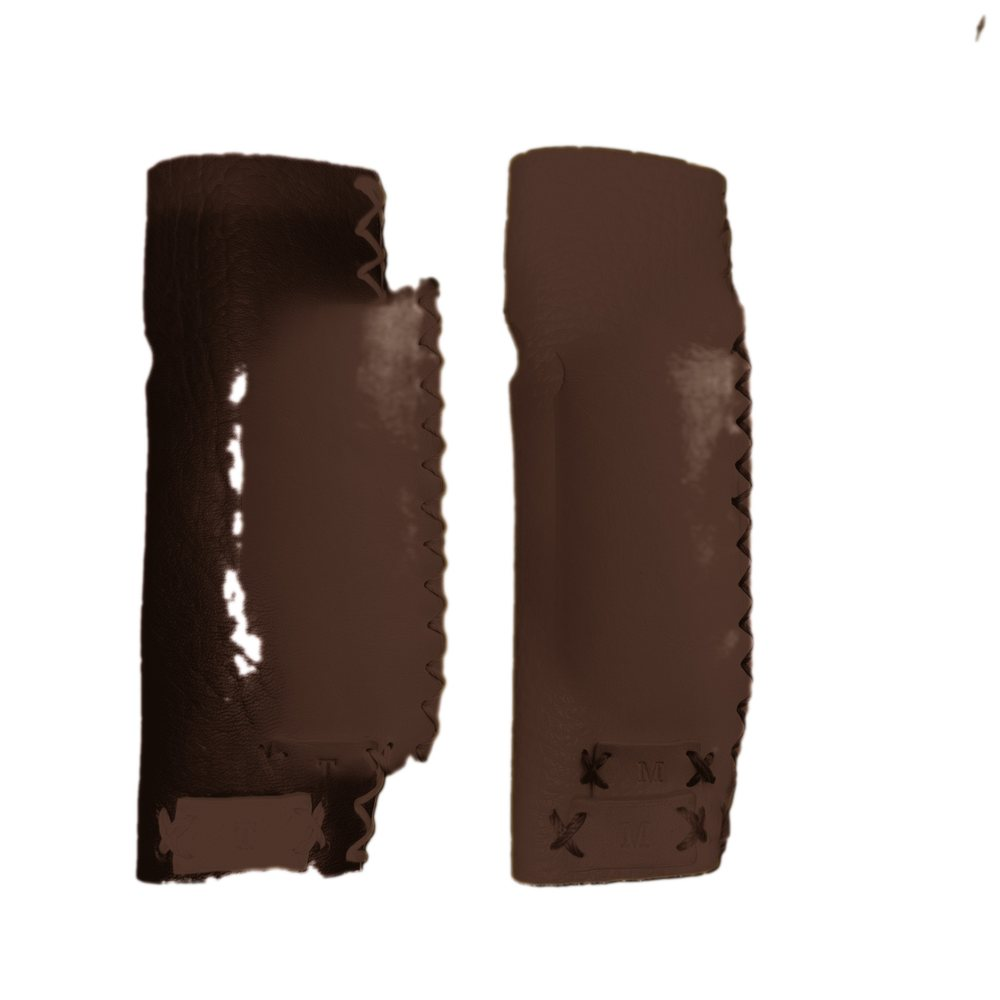
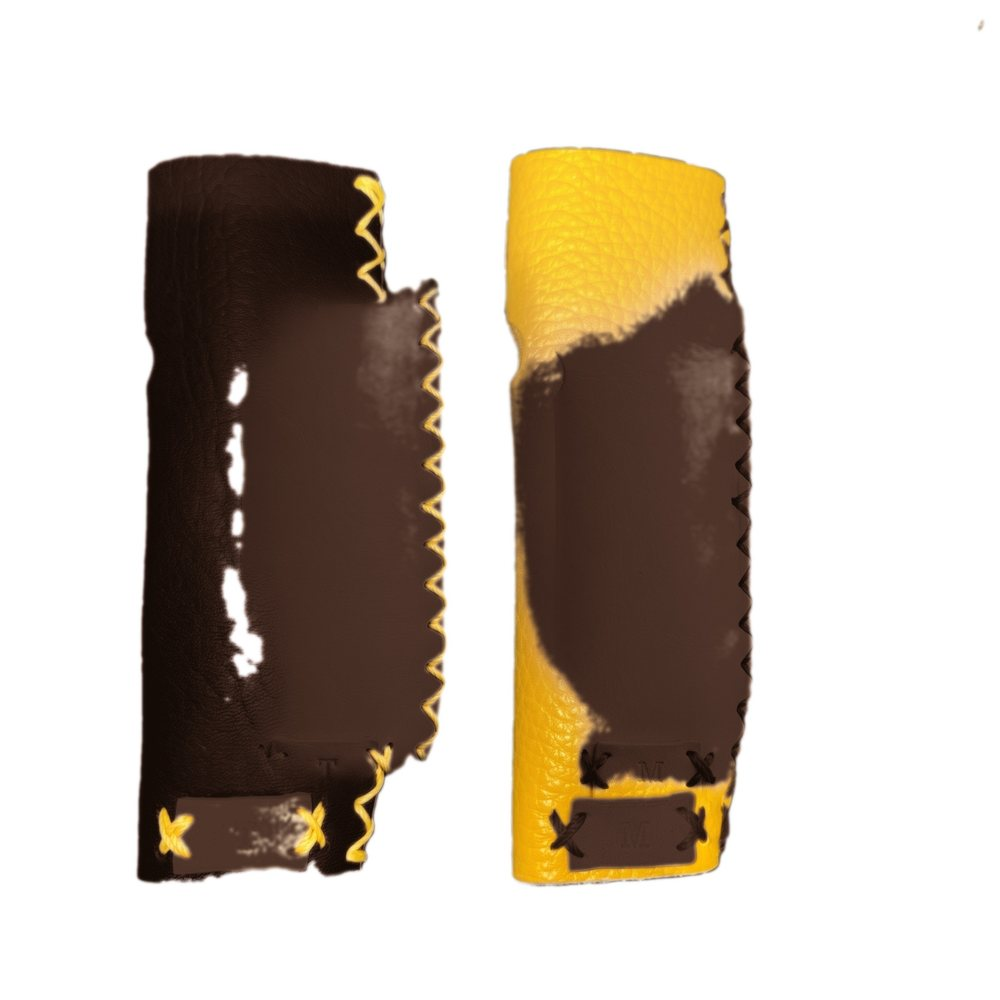
価格改定・商品構成の変更・オーダーの選択肢を整理
商品:
- レザーベルト 8,900円
- 蹄鉄バックルベルト → 腕輪なので「ブレスレット」に改名、3,980円。カテゴリを
  小物へ移し、サイズも胴回りから手首まわりに変更
- トラッカーウォレット 14,000円 / キーケース 5,000円 / カードケース 3,980円
- メガネケース 5,000円 / ウエストポーチ 4,000円 / ミニバッグチャーム 4,500円
- レザースリーブ 2,500円
- フラップケースを削除

オーダー:
- 革の種類を選ぶ項目を廃止
- 革の色をブラック / ダークブラウン / ナチュラルの3色に整理し、それ以外は
  「その他の色（別途費用）」として相談に回す
- ステッチをブラック / きなり / ターコイズブルー / ダークブラウンに変更。
  同じく「その他の色（別途費用）」を用意

色見本の生成:
真鍮の金具まで革と一緒に色が変わっていた。彩度だけでは革と区別がつかないため、
色相で切り分けるようにした（基準写真の革は15〜30度、真鍮は35度以上に出る）。
金具は元の金属色のまま残る。

Claude-Session: https://claude.ai/code/session_016AtETMtHpM8tqHZ44gkQZM

diff --git a/js/order-options.js b/js/order-options.js
@@ -1,9 +1,7 @@
 /* =========================================================================
    オーダーシミュレーターの中身。
-   【この定数の値はすべて仮】。若林さんに実際に作れる範囲を確認して差し替える。
-   - 革の種類 / 色 / ステッチ のラインナップ
-   - 製品ごとの base（基本価格）と、各オプションの add（加算額）
-   - 革種と色の組み合わせに制限があるか（例：ヌメ革は染色不可 等）も要確認
+   【要確認】その他の色を選んだときの追加費用は未定。若林さんに確認して
+   OTHER_COLOR_NOTE と add の値を入れる。
    ========================================================================= */
 
 window.ORDER = {
@@ -11,47 +9,38 @@ window.ORDER = {
   colors: [
     { id: 'black', label: 'ブラック', chip: '#1c1c1c', add: 0 },
     { id: 'darkbrown', label: 'ダークブラウン', chip: '#3f2a1b', add: 0 },
-    { id: 'brown', label: 'ブラウン', chip: '#7a4a2b', add: 0 },
-    { id: 'camel', label: 'キャメル', chip: '#b3763f', add: 0 },
-    { id: 'natural', label: 'ナチュラル', chip: '#d8b483', add: 0 }
+    { id: 'natural', label: 'ナチュラル', chip: '#d8b483', add: 0 },
+    { id: 'other', label: 'その他の色', chip: 'other', add: 0,
+      desc: '上記以外の色をご希望の場合、革の取り寄せが必要になるため別途費用をいただきます。ご相談ください。' }
   ],
 
   // 全製品に共通で選べるもの
   common: [
     {
-      key: 'leather',
-      label: '革の種類',
-      note: '同じ色でも、革が変わると硬さと育ち方が変わります。',
-      options: [
-        { id: 'nume', label: 'ヌメ革', add: 0, desc: '経年で飴色に育つ、いちばん変化が楽しめる革。' },
-        { id: 'oil', label: 'オイルドレザー', add: 2000, desc: 'しっとり柔らかく、傷が馴染みやすい。' },
-        { id: 'bridle', label: 'ブライドルレザー', add: 4000, desc: '硬く締まった英国革。使うほど艶が出る。' }
-      ]
-    },
-    {
       key: 'stitch',
       label: 'ステッチ',
       note: '手縫いの糸の色。',
       options: [
-        { id: 'natural', label: '生成り', chip: '#e6dcc8', add: 0 },
         { id: 'black', label: 'ブラック', chip: '#151515', add: 0 },
-        { id: 'white', label: 'ホワイト', chip: '#f2f2f2', add: 0 },
-        { id: 'yellow', label: 'イエロー', chip: '#d8ae2e', add: 0 },
-        { id: 'omakase', label: 'おまかせ', chip: 'transparent', add: 0, desc: '革の色に合わせて若林が選びます。' }
+        { id: 'natural', label: 'きなり', chip: '#e6dcc8', add: 0 },
+        { id: 'turquoise', label: 'ターコイズブルー', chip: '#3aa6b9', add: 0 },
+        { id: 'darkbrown', label: 'ダークブラウン', chip: '#3f2a1b', add: 0 },
+        { id: 'other', label: 'その他の色', chip: 'other', add: 0,
+          desc: '上記以外の色をご希望の場合、糸の取り寄せが必要になるため別途費用をいただきます。ご相談ください。' }
       ]
     }
   ],
 
   products: [
     {
-      id: 'belt_black', name: 'レザーベルト', base: 15000, cat: 'ベルト',
+      id: 'belt_black', name: 'レザーベルト', base: 8900, cat: 'ベルト',
       extra: [
         {
           key: 'width', label: '幅', note: 'ベルトループの幅に合わせて。迷ったら35mm。',
           options: [
             { id: 'w30', label: '30mm', add: 0 },
             { id: 'w35', label: '35mm', add: 0 },
-            { id: 'w40', label: '40mm', add: 1500 }
+            { id: 'w40', label: '40mm', add: 0 }
           ]
         },
         {
@@ -59,7 +48,7 @@ window.ORDER = {
           options: [
             { id: 'square_silver', label: '角型 / シルバー', chip: '#b9bcc0', add: 0 },
             { id: 'square_black', label: '角型 / ブラック', chip: '#3a3a3a', add: 0 },
-            { id: 'round_brass', label: 'ラウンド / 真鍮', chip: '#b08d3f', add: 1500 }
+            { id: 'round_brass', label: 'ラウンド / 真鍮', chip: '#b08d3f', add: 0 }
           ]
         }
       ],
@@ -67,20 +56,11 @@ window.ORDER = {
               note: 'いつも締めている位置で測ってください。分からなければ空欄で構いません。' }
     },
     {
-      id: 'belt_horseshoe', name: '蹄鉄バックルベルト', base: 19000, cat: 'ベルト',
-      extra: [
-        {
-          key: 'width', label: '幅', note: '',
-          options: [
-            { id: 'w35', label: '35mm', add: 0 },
-            { id: 'w40', label: '40mm', add: 1500 }
-          ]
-        }
-      ],
-      size: { label: '胴回り', unit: 'cm', placeholder: '例：82', min: 60, max: 130,
-              note: 'いつも締めている位置で測ってください。分からなければ空欄で構いません。' }
+      id: 'belt_horseshoe', name: 'ブレスレット', base: 3980, cat: '小物',
+      size: { label: '手首まわり', unit: 'cm', placeholder: '例：17', min: 12, max: 25,
+              note: '手首のいちばん細いところを測ってください。分からなければ空欄で構いません。' }
     },
-    { id: 'trucker_wallet', name: 'トラッカーウォレット', base: 28000, cat: 'ウォレット',
+    { id: 'trucker_wallet', name: 'トラッカーウォレット', base: 14000, cat: 'ウォレット',
       extra: [
         {
           key: 'concho', label: 'コンチョ', note: '',
@@ -92,14 +72,13 @@ window.ORDER = {
       ]
     },
     { id: 'star_wallet', name: 'スタースタッズウォレット', base: 30000, cat: 'ウォレット' },
-    { id: 'key_case', name: 'キーケース', base: 8000, cat: 'ケース' },
-    { id: 'card_case', name: 'カードケース', base: 6500, cat: 'ケース' },
-    { id: 'glasses_case_red', name: 'メガネケース', base: 9500, cat: 'ケース' },
-    { id: 'flap_case', name: 'フラップケース', base: 8500, cat: 'ケース' },
-    { id: 'waist_pouch', name: 'ウエストポーチ', base: 20000, cat: '小物' },
+    { id: 'key_case', name: 'キーケース', base: 5000, cat: 'ケース' },
+    { id: 'card_case', name: 'カードケース', base: 3980, cat: 'ケース' },
+    { id: 'glasses_case_red', name: 'メガネケース', base: 5000, cat: 'ケース' },
+    { id: 'waist_pouch', name: 'ウエストポーチ', base: 4000, cat: '小物' },
     { id: 'watch_band', name: 'ウォッチバンド', base: 12000, cat: '小物',
       size: { label: 'ラグ幅', unit: 'mm', placeholder: '例：20', min: 12, max: 30,
               note: '時計側の取り付け幅。分からなければ機種名をご相談時にお知らせください。' } },
-    { id: 'leather_sleeve', name: 'レザースリーブ', base: 4500, cat: '小物' }
+    { id: 'leather_sleeve', name: 'レザースリーブ', base: 2500, cat: '小物' }
   ]
 };

diff --git a/index.html b/index.html
@@ -87,14 +87,8 @@
         <li class="card">
           <figure><img src="assets/img/belt_black.jpg" alt="レザーベルト 黒" loading="lazy"></figure>
           <h3 class="card-name">レザーベルト</h3>
-          <p class="card-price">&yen;15,000</p>
+          <p class="card-price">&yen;8,900</p>
           <a class="card-cta" href="order.html?product=belt_black">オーダーをつくる</a>
-        </li>
-        <li class="card">
-          <figure><img src="assets/img/belt_horseshoe.jpg" alt="蹄鉄バックルのレザーベルト" loading="lazy"></figure>
-          <h3 class="card-name">蹄鉄バックルベルト</h3>
-          <p class="card-price">&yen;19,000</p>
-          <a class="card-cta" href="order.html?product=belt_horseshoe">オーダーをつくる</a>
         </li>
       </ul>
     </div>
@@ -105,7 +99,7 @@
         <li class="card">
           <figure><img src="assets/img/trucker_wallet.jpg" alt="トラッカーウォレット 黒" loading="lazy"></figure>
           <h3 class="card-name">トラッカーウォレット</h3>
-          <p class="card-price">&yen;28,000</p>
+          <p class="card-price">&yen;14,000</p>
           <a class="card-cta" href="order.html?product=trucker_wallet">オーダーをつくる</a>
         </li>
         <li class="card">
@@ -123,26 +117,20 @@
         <li class="card">
           <figure><img src="assets/img/key_case.jpg" alt="キーケース 黒×真鍮" loading="lazy"></figure>
           <h3 class="card-name">キーケース</h3>
-          <p class="card-price">&yen;8,000</p>
+          <p class="card-price">&yen;5,000</p>
           <a class="card-cta" href="order.html?product=key_case">オーダーをつくる</a>
         </li>
         <li class="card">
           <figure><img src="assets/img/card_case.jpg" alt="カードケース ネイビー×マスタード" loading="lazy"></figure>
           <h3 class="card-name">カードケース</h3>
-          <p class="card-price">&yen;6,500</p>
+          <p class="card-price">&yen;3,980</p>
           <a class="card-cta" href="order.html?product=card_case">オーダーをつくる</a>
         </li>
         <li class="card">
           <figure><img src="assets/img/glasses_case_red.jpg" alt="メガネケース 赤" loading="lazy"></figure>
           <h3 class="card-name">メガネケース</h3>
-          <p class="card-price">&yen;9,500</p>
+          <p class="card-price">&yen;5,000</p>
           <a class="card-cta" href="order.html?product=glasses_case_red">オーダーをつくる</a>
-        </li>
-        <li class="card">
-          <figure><img src="assets/img/flap_case.jpg" alt="フラップケース グレージュ" loading="lazy"></figure>
-          <h3 class="card-name">フラップケース</h3>
-          <p class="card-price">&yen;8,500</p>
-          <a class="card-cta" href="order.html?product=flap_case">オーダーをつくる</a>
         </li>
       </ul>
     </div>
@@ -151,9 +139,15 @@
       <h2 class="category-title">小物</h2>
       <ul class="grid">
         <li class="card">
+          <figure><img src="assets/img/belt_horseshoe.jpg" alt="蹄鉄バックルのレザーブレスレット" loading="lazy"></figure>
+          <h3 class="card-name">ブレスレット</h3>
+          <p class="card-price">&yen;3,980</p>
+          <a class="card-cta" href="order.html?product=belt_horseshoe">オーダーをつくる</a>
+        </li>
+        <li class="card">
           <figure><img src="assets/img/waist_pouch.jpg" alt="レザーウエストポーチ ブラウン" loading="lazy"></figure>
           <h3 class="card-name">ウエストポーチ</h3>
-          <p class="card-price">&yen;20,000</p>
+          <p class="card-price">&yen;4,000</p>
           <a class="card-cta" href="order.html?product=waist_pouch">オーダーをつくる</a>
         </li>
         <li class="card">
@@ -165,13 +159,13 @@
         <li class="card">
           <figure><img src="assets/img/bag_charm.jpg" alt="ミニバッグチャーム" loading="lazy"></figure>
           <h3 class="card-name">ミニバッグチャーム</h3>
-          <p class="card-price">&yen;5,500</p>
+          <p class="card-price">&yen;4,500</p>
           <a class="card-cta" href="https://ig.me/m/velf.__jp" target="_blank" rel="noopener">オーダー相談</a>
         </li>
         <li class="card">
           <figure><img src="assets/img/leather_sleeve.jpg" alt="レザースリーブ ブラウン・イエロー" loading="lazy"></figure>
           <h3 class="card-name">レザースリーブ</h3>
-          <p class="card-price">&yen;4,500</p>
+          <p class="card-price">&yen;2,500</p>
           <a class="card-cta" href="order.html?product=leather_sleeve">オーダーをつくる</a>
         </li>
       </ul>

diff --git a/js/order.js b/js/order.js
@@ -64,7 +64,9 @@ function colorObj() {
 }
 
 function variantSrc(productId, colorId) {
-  return 'assets/img/variants/' + productId + '_' + colorId + '.jpg';
+  // 「その他の色」は見本を用意できないので、ナチュラルの写真を借りて表示する
+  const c = colorId === 'other' ? 'natural' : colorId;
+  return 'assets/img/variants/' + productId + '_' + c + '.jpg';
 }
 
 // ---- ステップ制御 ----
@@ -133,8 +135,10 @@ function swatchButton(group, opt, onPick) {
 
   if (opt.chip) {
     const chip = document.createElement('span');
-    chip.className = 'swatch-chip' + (opt.chip === 'transparent' ? ' is-none' : '');
-    chip.style.background = opt.chip;
+    chip.className = 'swatch-chip' +
+      (opt.chip === 'transparent' ? ' is-none' : '') +
+      (opt.chip === 'other' ? ' is-other' : '');
+    if (opt.chip !== 'other') chip.style.background = opt.chip;
     btn.appendChild(chip);
   }
   const label = document.createElement('span');
@@ -165,7 +169,9 @@ function buildControls() {
     btn.className = 'swatch' + (c.id === state.color ? ' is-active' : '');
     btn.setAttribute('role', 'radio');
     btn.setAttribute('aria-checked', c.id === state.color ? 'true' : 'false');
-    btn.innerHTML = '<span class="swatch-chip" style="background:' + c.chip + '"></span>' +
+    btn.innerHTML = (c.chip === 'other'
+        ? '<span class="swatch-chip is-other"></span>'
+        : '<span class="swatch-chip" style="background:' + c.chip + '"></span>') +
       '<span class="swatch-label">' + c.label + '</span>';
     btn.addEventListener('click', function () {
       state.color = c.id;
@@ -180,6 +186,10 @@ function buildControls() {
     colorList.appendChild(btn);
   });
   colorBlock.appendChild(colorList);
+  const colorDesc = document.createElement('p');
+  colorDesc.className = 'ctrl-desc';
+  colorDesc.id = 'colorDesc';
+  colorBlock.appendChild(colorDesc);
   wrap.appendChild(colorBlock);
 
   // 共通 + 製品ごとの選択肢
@@ -253,10 +263,14 @@ function renderPreview() {
   };
   img.src = variantSrc(state.product, state.color);
   img.alt = product().name + ' ' + colorObj().label;
-  caption.textContent = product().name + ' / ' + colorObj().label;
+  caption.textContent = state.color === 'other'
+    ? product().name + ' / その他の色（写真はナチュラルです）'
+    : product().name + ' / ' + colorObj().label;
 
   const cv = document.getElementById('colorValue');
   if (cv) cv.textContent = colorObj().label;
+  const cd = document.getElementById('colorDesc');
+  if (cd) cd.textContent = colorObj().desc || '';
 
   groups().forEach(function (g) {
     const el = document.querySelector('[data-value-for="' + g.key + '"]');
@@ -292,7 +306,7 @@ function renderConfirm() {
   }
 
   row('製品', product().name);
-  row('色', colorObj().label);
+  row('色', colorObj().label + (state.color === 'other' ? '（別途費用）' : ''));
   groups().forEach(function (g) { row(g.label, chosen(g.key).label); });
   if (product().size) {
     row(product().size.label, state.size ? state.size + ' ' + product().size.unit : '相談して決める');
@@ -307,8 +321,11 @@ document.getElementById('orderNote').addEventListener('input', function () {
 
 function specText() {
   const lines = ['VÉLF「' + product().name + '」のオーダーで相談したいです。', ''];
-  lines.push('色：' + colorObj().label);
-  groups().forEach(function (g) { lines.push(g.label + '：' + chosen(g.key).label); });
+  lines.push('色：' + colorObj().label + (state.color === 'other' ? '（別途費用の相談あり）' : ''));
+  groups().forEach(function (g) {
+    const o = chosen(g.key);
+    lines.push(g.label + '：' + o.label + (o.id === 'other' ? '（別途費用の相談あり）' : ''));
+  });
   if (product().size) {
     lines.push(product().size.label + '：' +
       (state.size ? state.size + ' ' + product().size.unit : '相談して決めたい'));

diff --git a/css/order.css b/css/order.css
@@ -447,3 +447,8 @@
   .product-grid { padding: 0 1.2rem; }
   .confirm { padding: 0 1.2rem; }
 }
+
+/* その他の色は見本を出せないので、多色のチップで示す */
+.swatch-chip.is-other {
+  background: conic-gradient(#1c1c1c, #3f2a1b, #8e2230, #3aa6b9, #d8b483, #1c1c1c);
+}
